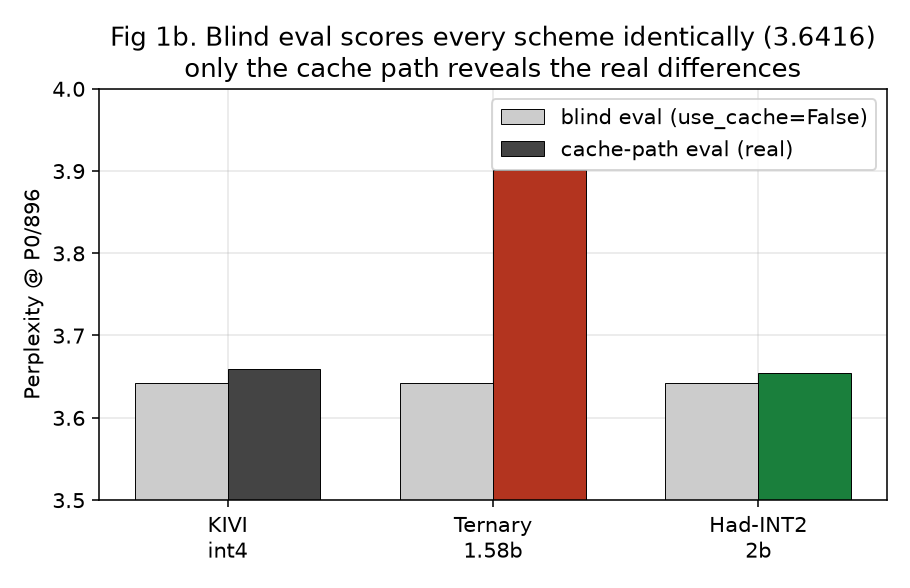
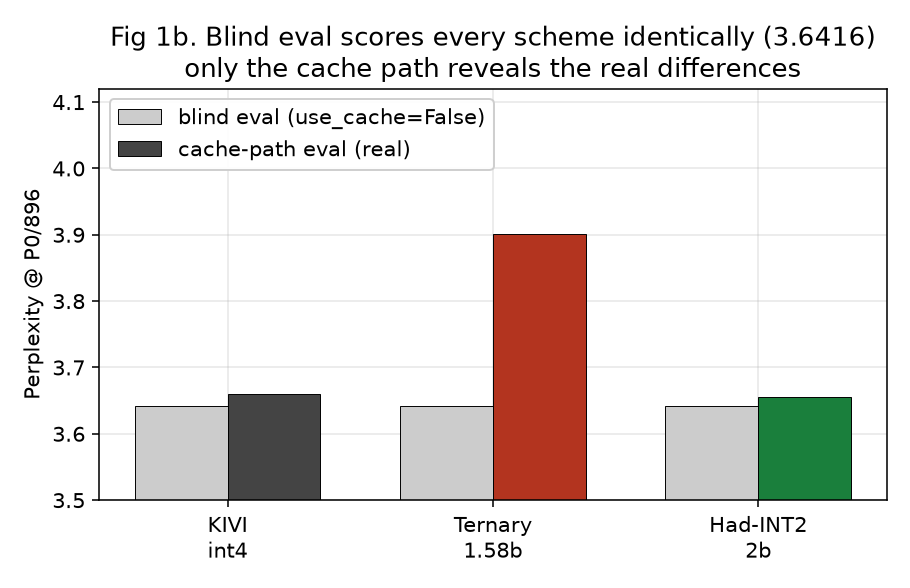
Fix figure layout: separate overlapping labels (Fig 3), move legend off bar (Fig 1b)

diff --git a/make_figures.py b/make_figures.py
@@ -70,9 +70,9 @@ ax.bar(x - w/2, blind, w, label="blind eval (use_cache=False)", color="#ccc", ed
 ax.bar(x + w/2, real,  w, label="cache-path eval (real)", color=["#444", C["ternary"], C["had_int2"]],
        edgecolor="k", linewidth=.5)
 ax.set_xticks(x); ax.set_xticklabels(schemes)
-ax.set_ylim(3.5, 4.0); ax.set_ylabel("Perplexity @ P0/896")
+ax.set_ylim(3.5, 4.12); ax.set_ylabel("Perplexity @ P0/896")
 ax.set_title("Fig 1b. Blind eval scores every scheme identically (3.6416)\nonly the cache path reveals the real differences")
-ax.legend()
+ax.legend(loc="upper left", framealpha=0.95)
 fig.tight_layout(); fig.savefig(f"{FIG}/fig1b_blind_collapse.png"); plt.close(fig)
 
 # ======================================================================
@@ -92,19 +92,21 @@ fig.tight_layout(); fig.savefig(f"{FIG}/fig2_main_7b.png"); plt.close(fig)
 # ======================================================================
 # FIG 3 — bits-vs-quality tradeoff (the money figure).
 # ======================================================================
-fig, ax = plt.subplots(figsize=(6.5, 4.6))
+fig, ax = plt.subplots(figsize=(7.2, 5.0))
 # x = bits/elem, y = PPL @ P0/896 (7B). fp16 = REAL cache-path number (Kaggle Test A).
-pts = [("fp16 (exact V)", 16, 3.5637, C["fp16"]),
-       ("KIVI int4", 4, 3.6595, C["kivi"]),
-       ("Had-INT2 (ours)", 2, 3.6548, C["had_int2"]),
-       ("Ternary", 1.58, 3.9013, C["ternary"])]
-for name, b, p, c in pts:
-    ax.scatter(b, p, s=140, color=c, edgecolor="k", zorder=3)
-    ax.annotate(name, (b, p), textcoords="offset points", xytext=(8, 6), fontsize=9)
+# per-point label offsets (dx,dy in points) + alignment, so labels never collide.
+pts = [("fp16 (exact V)", 16, 3.5637, C["fp16"], (-12, 10), "right"),
+       ("KIVI int4",       4, 3.6595, C["kivi"], (10, 10), "left"),
+       ("Had-INT2 (ours)", 2, 3.6548, C["had_int2"], (6, -18), "left"),
+       ("Ternary",      1.58, 3.9013, C["ternary"], (12, 0), "left")]
+for name, b, p, c, off, ha in pts:
+    ax.scatter(b, p, s=150, color=c, edgecolor="k", zorder=3)
+    ax.annotate(name, (b, p), textcoords="offset points", xytext=off, ha=ha, fontsize=9.5)
 ax.axhline(3.6595, ls="--", color=C["kivi"], alpha=.5, label="KIVI quality line")
 ax.set_xlabel("bits per V element"); ax.set_ylabel("Perplexity @ P0/896 (7B)")
-ax.set_xlim(0.8, 17); ax.set_title("Fig 3. Bits vs quality — Had-INT2 hits KIVI quality at 2 bits;\nternary falls off the line below 2 bits")
-ax.legend()
+ax.set_xlim(-0.5, 18.5); ax.set_ylim(3.52, 3.97)
+ax.set_title("Fig 3. Bits vs quality — Had-INT2 hits KIVI quality at 2 bits;\nternary falls off the line below 2 bits")
+ax.legend(loc="center right")
 fig.tight_layout(); fig.savefig(f"{FIG}/fig3_bits_vs_quality.png"); plt.close(fig)
 
 # ======================================================================